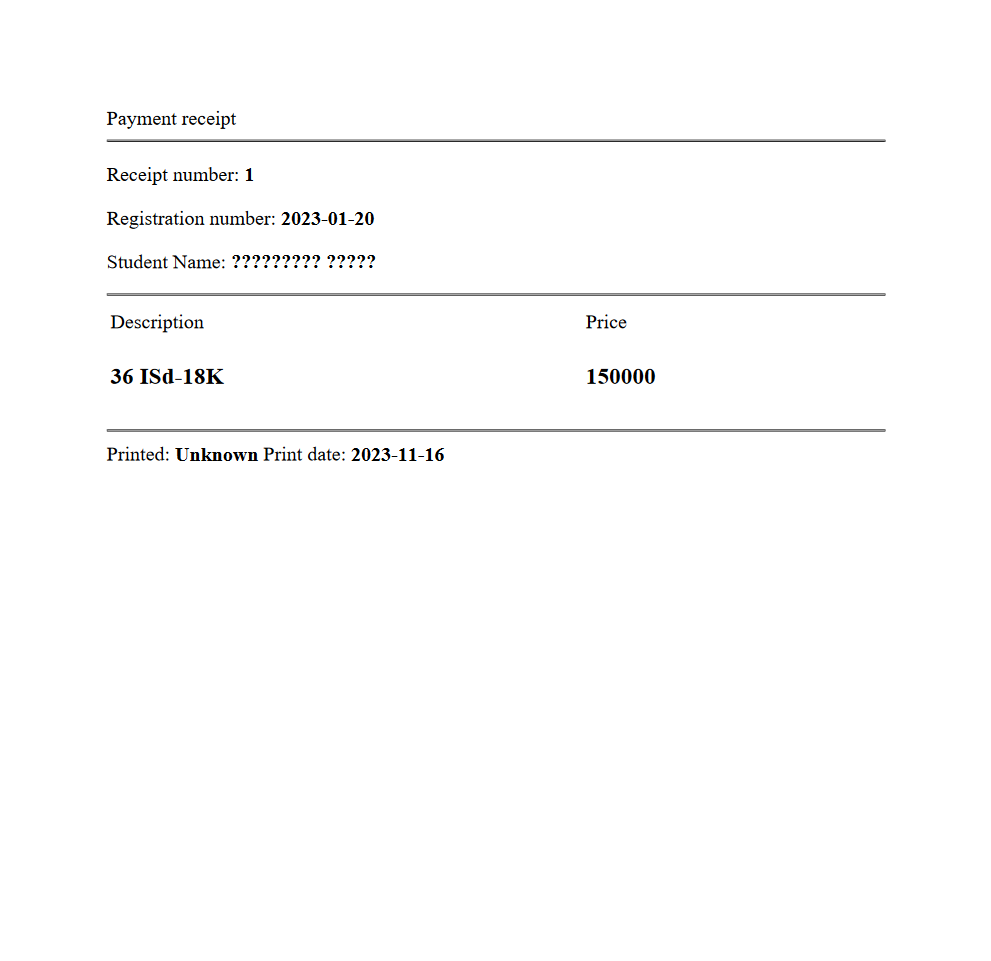
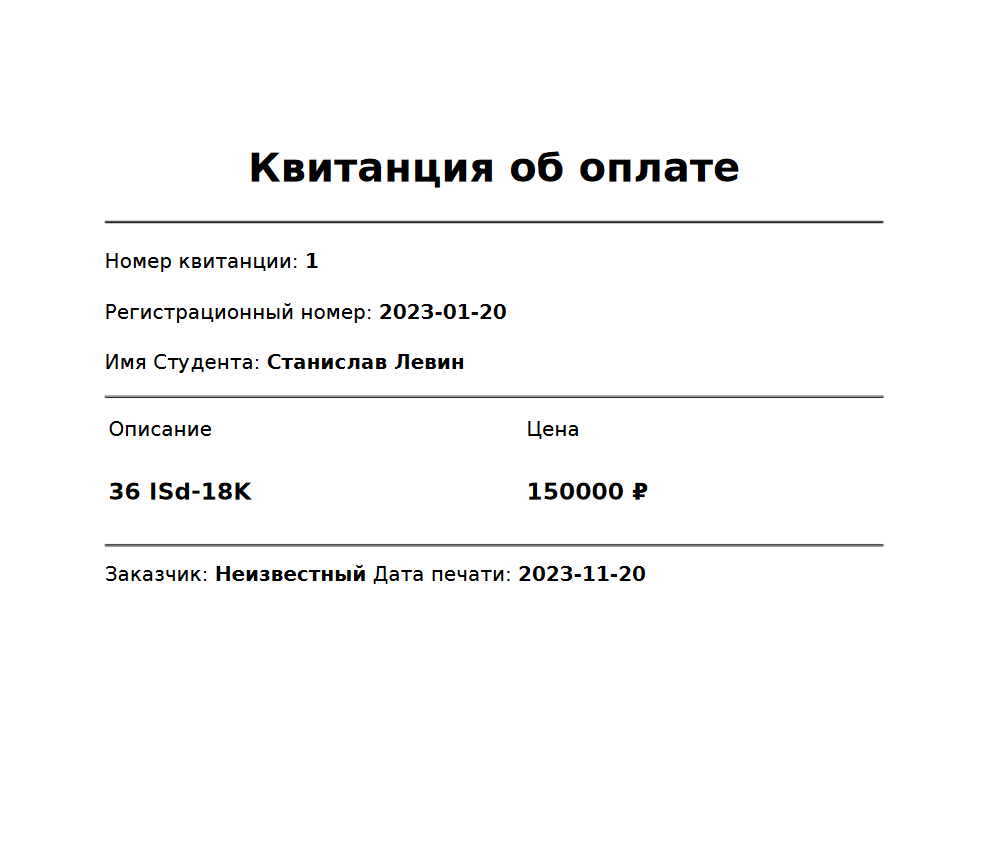
Сделал отчет на русском языке

diff --git a/app/Http/Controllers/ReportController.php b/app/Http/Controllers/ReportController.php
@@ -13,41 +13,38 @@ class ReportController extends Controller
     {
         $payment = Payment::find($pid);
         $pdf = App::make('dompdf.wrapper');
-        $print = "<div style='margin:20px; padding:20px;>";
-        $print.= "<h1 align='center'>Квитанция об оплате</h1>";
-        $print.= "<hr />";
-        $print.= "<p> Receipt number: <b>" . $pid . "</b> </p>";
-        $print.= "<p> Registration number: <b>" . $payment->paid_date . "</b></p>";
+        $print = "<div style='margin:20px; padding:20px;'>";
+        $print .= '<h1 align="center" style="font-family: DejaVu Sans, sans-serif;">Квитанция об оплате</h1>';
 
-        $print.= "<p> Student Name: <b>" . $payment->enrollment->student->name . "</b></p>";
+        $print .= "<hr />";
+        $print .= '<p style="font-family: firefly, DejaVu Sans, sans-serif;">Номер квитанции: <b>' . $pid . '</b></p>';
+        $print .= '<p style="font-family: firefly, DejaVu Sans, sans-serif;">Регистрационный номер: <b>' . $payment->paid_date . '</b></p>';
 
-        $print.= "<hr/>";
-        $print.= "<table style='width: 100%'>";
+        $print .= '<p style="font-family: firefly, DejaVu Sans, sans-serif;">Имя Студента: <b>' . $payment->enrollment->student->name . '</b></p>';
+
+        $print .= "<hr/>";
+        $print .= "<table style='width: 100%'>";
 
         // Создание таблицы отчета
-        $print.= "<tr>";
-        $print.= "<td>Description</td>";
-        $print.= "<td>Price</td>";
+        $print .= "<tr>";
+        $print .= '<td style="font-family: firefly, DejaVu Sans, sans-serif;">Описание</td>';
+        $print .= '<td style="font-family: firefly, DejaVu Sans, sans-serif;">Цена</td>';
+        $print .= "</tr>";
 
-        $print.= "</tr>";
+        $print .= "<tr>";
+        $print .= '<td> <h3 style="font-family: firefly, \'DejaVu Sans\', sans-serif;">' . $payment->enrollment->batch->name . '</h3> </td>';
+        $print .= '<td> <h3 style="font-family: firefly, \'DejaVu Sans\', sans-serif;">' . $payment->amount . ' ₽</h3> </td>';
+        $print .= "</tr>";
 
-        $print.= "<tr>";
-        $print.= "<td> <h3>" . $payment->enrollment->batch->name . "</h3> </td>";
-        $print.= "<td> <h3>" . $payment->amount . "</h3> </td>";
-        $print.= "<tr>";
+        $print .= "</table>";
+        $print .= "<hr/>";
 
-        $print.= "</table>";
-        $print.= "<hr/>";
+        $print .= '<span style="font-family: firefly, \'DejaVu Sans\', sans-serif;"> Заказчик: <b>' . (Auth::check() ? Auth::user()->name : 'Неизвестный') . '</b></span>';
+        $print .= '<span style="font-family: firefly, \'DejaVu Sans\', sans-serif;"> Дата печати: <b>' . date('Y-m-d') . '</b></span>';
 
-        $print.= "<span> Printed: <b>" . (Auth::check() ? Auth::user()->name : 'Unknown') . "</b></span>";
-        $print.= "<span> Print date: <b>". date('Y-m-d') . "</b></span>";
-
-        $print.= "</div>";
+        $print .= "</div>";
         $pdf->loadHTML($print);
-
         return $pdf->stream();
     }
-  
 }
-
 ?>

diff --git a/resources/views/layout.blade.php b/resources/views/layout.blade.php
@@ -2,11 +2,12 @@
 <html lang="ru">
 
 <head>
-  <meta http-equiv="Content-Type" content="text/html; charset=utf-8">
+  <meta http-equiv="Content-Type" content="text/html; charset=utf-8"/>
   <meta name="viewport" content="width=device-width, initial-scale=1.0">
   <link rel="stylesheet" href="https://cdn.jsdelivr.net/npm/bootstrap@4.0.0/dist/css/bootstrap.min.css" integrity="sha384-Gn5384xqQ1aoWXA+058RXPxPg6fy4IWvTNh0E263XmFcJlSAwiGgFAW/dAiS6JXm" crossorigin="anonymous">
   <title>Система управления студентами</title>
   <style>
+    body { font-family: DejaVu Sans, sans-serif; }
     /* The side navigation menu */
 .sidebar {
   margin: 0;
